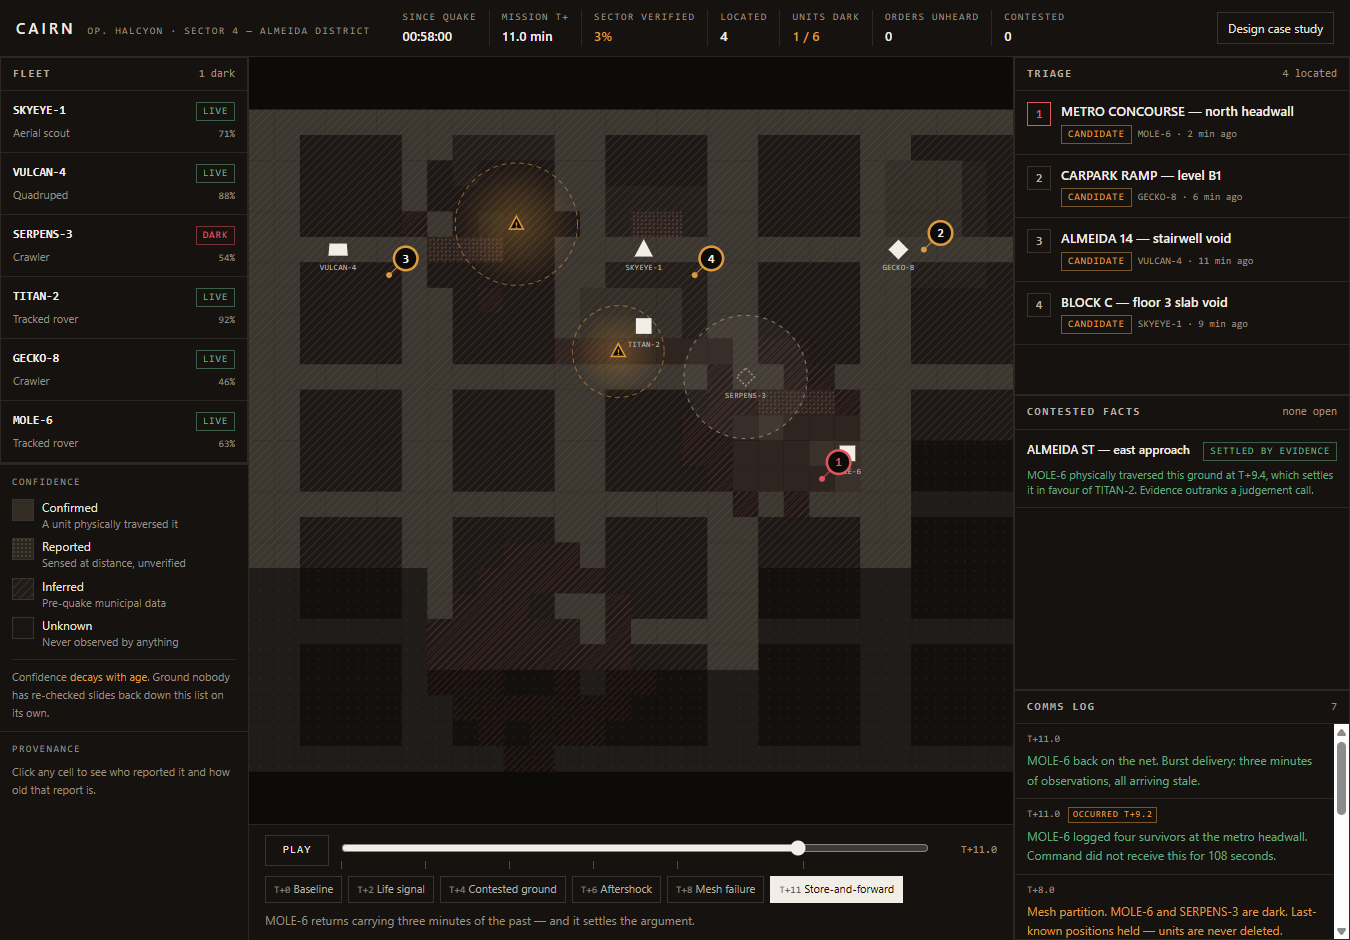
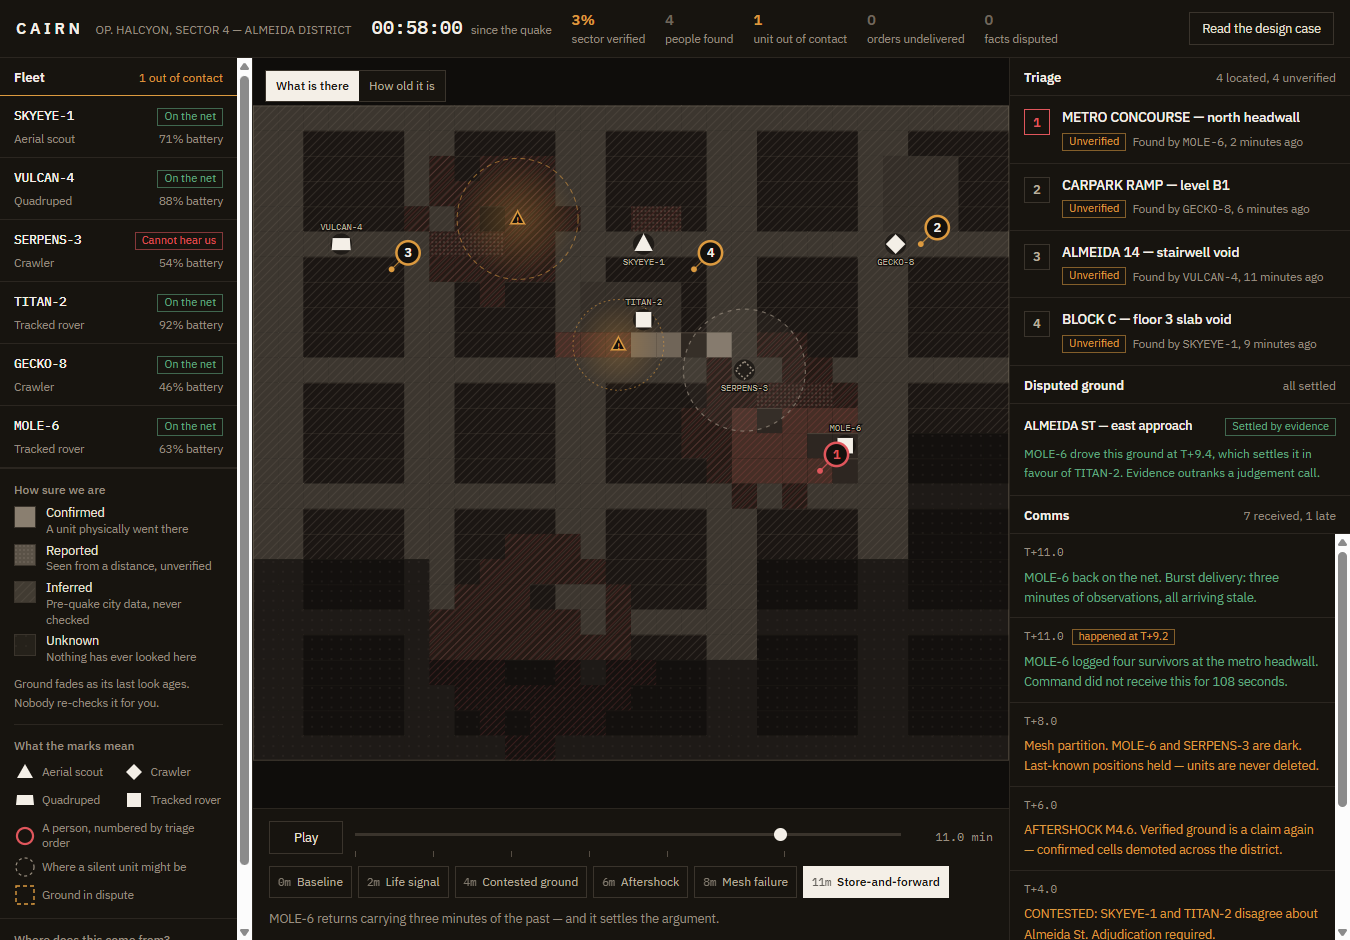
README and IA doc: argue the case against a real basemap
The obvious build here is markers on OpenStreetMap or a 3D city, and
both look more impressive in the first two seconds than a hand-drawn
SVG does. The reason for rejecting them is worth stating rather than
leaving implicit: a photographic basemap asserts that the city is known,
which is precisely what the brief says is not true. Render a pristine
street network and the uncertainty can only ever be a decoration on top
of an authoritative picture.

README now leads with the age view, since a district that is almost
entirely black makes the argument faster than any paragraph.

diff --git a/README.md b/README.md
@@ -1,17 +1,19 @@
 # CAIRN
 
-**Command a robot swarm through a city you cannot see, using information you cannot fully trust.**
+**Command a rescue swarm through a city you cannot see, using information you cannot fully trust.**
 
 ### ▶ [Open the live command deck](https://aaaditt.github.io/UXcelerate/)
 
-*The incident plays itself — about 30 seconds end to end. Press space to pause, or jump straight to any beat.*
+*The incident plays itself — about 30 seconds end to end. Nothing to install, nothing to set up.*
 
 Submission for **UXcelerate!** — the IEI BPDC UI/UX challenge, 5–6 September 2026.
 Forked from [ieibpdc/UXcelerate](https://github.com/ieibpdc/UXcelerate).
 
-[![CAIRN command deck at T+11](docs/img/backfill.png)](https://aaaditt.github.io/UXcelerate/)
+---
 
-<sup>**T+11 — store-and-forward.** MOLE-6 returns from three minutes of radio silence. Its observations are stamped `OCCURRED T+9.2` in the log because they arrived late, and the ground it physically drove has just **settled the argument** that two remote sensors could only disagree about.</sup>
+[![Everything six robots have seen after eleven minutes](docs/img/age-view.png)](https://aaaditt.github.io/UXcelerate/)
+
+<sup>**This is not a styling choice.** It is the map switched to *How old it is*, eleven minutes into the incident: every patch of ground six robots have actually observed, and nothing else. Bright was seen seconds ago, dim minutes ago, black never. **Almost the entire district is black.** An interface that draws the rest as though it were known is lying to the person who has to walk into it.</sup>
 
 ---
 
@@ -31,10 +33,10 @@ CAIRN's primary object is therefore a *decision under uncertainty*, not a fleet.
 
 | The brief says | CAIRN does |
 |---|---|
-| **Maps may be incomplete** | Confidence is drawn as **material** — solid, stipple, hatch, void — never as colour alone, so it survives greyscale and colour blindness. And it **decays with age**: ground nobody re-checks slides from *confirmed* → *reported* → *inferred* on its own. The map visibly forgets. |
-| **Robots discover contradictions** | When the aerial unit says a street is clear and the ground unit says it is blocked, the system **refuses to silently pick a winner**. It raises a contested fact, attributes both claims with sensor and timestamp, and shows what each choice does to the triage order. |
-| **Communication may be unreliable** | A dark unit is **never removed from the map**. It holds its last-known position inside an uncertainty ellipse that **grows as contact ages**. Orders queue instead of failing, and the fleet list counts *"orders this unit does not know about yet."* |
-| **Continuous discovery** | Discoveries enter as **candidates to be triaged in**, never as toasts that vanish carrying the only copy of the information. The queue ranks *people*, shows its arithmetic, and states the counterfactual: *"rank 3 → rank 1 if Almeida St is confirmed passable."* |
+| **Maps may be incomplete** | Certainty is drawn as **material** — solid, stipple, hatch, void — never as colour alone, so it survives greyscale and colour blindness. And it **decays continuously with age**: ground nobody re-checks fades on screen while you watch, and an aftershock demotes the whole district at once. Certainty is a function of time, not a flag somebody set. |
+| **Robots discover contradictions** | When the drone says a street is clear and the rover says it is blocked, the system **refuses to silently pick a winner**. It raises the dispute, attributes both claims with sensor and timestamp, and shows what each answer costs in triage order. |
+| **Communication may be unreliable** | A unit that cannot hear us is **never removed from the map**. It holds its last-known position inside a circle that **grows as contact ages**. Orders queue instead of failing, and the fleet counts *"orders this unit does not know about yet."* |
+| **Continuous discovery** | Discoveries enter as **candidates to be triaged in**, never as toasts that vanish carrying the only copy of the information. The queue ranks *people*, shows its arithmetic, and states the counterfactual: *"rank 3 → rank 1 if Almeida St is passable."* |
 
 ## The idea that makes it work
 
@@ -46,59 +48,67 @@ state(T) = EVENTS.filter(e => e.known <= T)   // what Command has received
                  .reduce(applyEvent, seed)
 ```
 
-For a live unit the two clocks are identical. For MOLE-6 — dark at T+08, back at T+11 — they diverge, and its three minutes of observations arrive **already stale**, slotting into the timeline where they really belong.
+For a live unit the two clocks are identical. For MOLE-6 — dark at eight minutes, back at eleven — they diverge, and its three minutes of observations arrive **already stale**, slotting into the timeline where they really belong.
 
-**The map gains information about its own past.** Store-and-forward, the timeline scrubber, confidence decay, and "what did we know at T+04" are all the same query with a different bound. This is the rare case where the engineering choice and the design choice are the same choice.
+**The map gains information about its own past**, and that backfill is what finally settles a dispute raised seven minutes earlier. Store-and-forward, the timeline scrubber, confidence decay, and "what did we know at four minutes" are all the same query with a different bound. This is the rare case where the engineering choice and the design choice are the same choice.
+
+## Why there is no 3D city and no real basemap
+
+The most tempting thing to build here is a photoreal 3D district, or markers dropped onto OpenStreetMap. Both were deliberately rejected, and the reason is the whole argument:
+
+**A photographic basemap asserts that the city is known.** Every road drawn crisply underneath your robots is a claim that somebody has verified it — which is precisely the thing the brief says is not true. The moment you render a pristine street network, you have designed away the problem you were asked to solve.
+
+So the district is hand-drawn SVG over a deterministic simulation. That buys three things a vendor basemap cannot:
+
+1. **Uncertainty becomes drawable.** Confidence *is* the map — the texture, the opacity, the fade. That is not possible when you are compositing on top of somebody else's authoritative tiles.
+2. **It cannot fail.** No WebGL context, no tile server, no network dependency in the render path. It draws on a judge's laptop, in a projector room, on a phone.
+3. **It is honest about scale.** Six robots, eleven minutes, a few percent of a sector. A slick 3D city makes that look like coverage. A field of black does not.
 
 ## Walk it in 90 seconds
 
-Six named beats, jumpable from the timeline or with keys `1`–`6`:
+Six named moments, jumpable from the timeline or with keys `1`–`6`:
 
-| | Beat | What to watch |
+| | Moment | What to watch |
 |---|---|---|
-| **T+00** | Baseline | Most of the map is hatched — that is *pre-quake municipal data*, not ground truth. Sector verified: 2%. |
-| **T+02** | Life signal | A thermal bloom over Block C enters triage as a **candidate**, at 41% vitals confidence. Open it — the ranking shows its arithmetic. |
-| **T+04** | Contested ground | Air and ground disagree. Read both claims, then adjudicate. Watch the triage order and the map change together. |
-| **T+06** | Aftershock | M4.6. Every *confirmed* cell in the district is demoted to *reported*. The picture rots in one step. |
-| **T+08** | Mesh failure | Two units go dark. Their uncertainty ellipses grow. Dispatch one anyway — the order **queues**. |
-| **T+11** | Store-and-forward | MOLE-6 returns with three minutes of the past. The comms log stamps them `occurred T+9.2`, and the backfill **settles the T+04 argument**. |
+| **0m** | Baseline | Most of the map is hatched — that is *pre-quake city data*, not ground truth. Sector verified: 1%. |
+| **2m** | Life signal | A thermal bloom over Block C enters triage as a **candidate** at 41% confidence. Open it: the ranking shows its arithmetic. |
+| **4m** | Contested ground | Air and ground disagree. Read both claims, then decide. The triage order and the map change together. |
+| **6m** | Aftershock | M4.6. Every *confirmed* cell in the district is demoted at once. Sector verified drops to **0%**. |
+| **8m** | Mesh failure | Two units go dark. Their uncertainty circles grow. Send one anyway — the order **queues**, and the top bar counts it. |
+| **11m** | Store-and-forward | MOLE-6 returns with three minutes of the past, stamped `happened at T+9.2`, and it **settles the 4m argument**. |
 
-**Keyboard:** `space` play/pause · `1`–`6` jump to beat · `esc` clear selection
-**In-app:** the full written case study is behind *Design case study* in the top right.
+**Keyboard:** `space` plays and pauses · `1`–`6` jump between moments · `esc` clears the selection
+**In-app:** the full written case is behind *Read the design case*, top right.
 
 | | |
 |---|---|
-| ![Contested fact at T+4](docs/img/contested.png) | ![Triage score breakdown](docs/img/triage.png) |
-| **T+04 — the system refuses to choose.** Both claims are attributed with their sensor and timestamp. Until Command adjudicates, the contested cells stay impassable in every route we calculate. | **Every rank shows its arithmetic.** Vitals confidence, void space, corroboration, elapsed time and route trust — plus what would change the ordering. |
+| ![A contested fact at four minutes](docs/img/contested.png) | ![Store-and-forward at eleven minutes](docs/img/backfill.png) |
+| **4m — the system refuses to choose.** Both claims attributed with sensor and timestamp. Until it is settled, the ground stays impassable in every route we calculate. | **11m — the past arrives late.** The comms log stamps the backfill `happened at T+9.2`, and evidence from a physical traversal outranks the earlier judgement call. |
 
 ## Accessibility — stated honestly
 
-An unverifiable conformance badge is worse than no badge, so:
+**Lighthouse rates the live build 100 for accessibility, 100 best practices, 100 SEO.** That is a floor, not a certificate — and there is no badge on this repo, because a badge you cannot verify is worse than none.
 
-**Lighthouse: accessibility 100, best practices 100, SEO 100** on the live build — after fixing the two real failures the first run surfaced. That score is a floor, not a certificate; it cannot see either gap listed below.
+**Holds up.** No information is carried by colour alone — certainty is texture, triage order is a numeral, link state is a sentence. Body text never drops below 14px, with tabular figures on anything that ticks. Every control is keyboard reachable with a visible focus ring, and `prefers-reduced-motion` is respected.
 
-**Holds up.** No information is carried by colour alone — confidence is texture, triage order is a numeral, link state is a word. Body text meets WCAG AA contrast on the graphite surfaces, with a 14px floor. Every control is keyboard reachable with a visible focus ring. `prefers-reduced-motion` is respected. The map carries a text alternative summarising its state.
-
-**Does not yet.** The SVG map is not fully keyboard navigable — cells are clickable but not tabbable, so a screen-reader user gets the summary and the panels but not per-cell provenance. Map callsigns render at 8.5px, breaking the 14px floor the design system sets for itself. Both are documented in [`docs/06-accessibility-audit.md`](docs/06-accessibility-audit.md) rather than hidden.
+**Does not.** The SVG map is not keyboard navigable, so per-cell provenance is mouse-only, and there is no live region announcing incident events to a screen reader. Both are written up in [`docs/06-accessibility-audit.md`](docs/06-accessibility-audit.md) rather than hidden.
 
 ## Design system in one paragraph
 
-**Colour is a scarce resource.** Real safety-critical equipment — ICU monitors, air traffic displays, INSARAG field kit — is not neon. Here colour only ever means risk or confidence; there is no brand accent. When something turns amber on this screen, it means something. Body text never drops below 14px, because dense tactical UIs habitually fall to 10px and lose all hierarchy exactly when load matters most. Telemetry uses tabular figures so columns do not jitter as they tick. Warm graphite, not blue-black — this should read as an instrument someone is accountable for, not a prop.
+**Colour is a scarce resource.** Real safety-critical equipment — ICU monitors, air traffic displays, INSARAG field kit — is not neon. Here colour only ever means risk or confidence; there is no brand accent, and interactive state is carried by weight, border and a bright neutral instead of hue. When something turns amber on this screen, it means something. An earlier version of this deck had a tracked-out capitalised label above every panel and monospace on every number; it looked technical, but it was decoration pretending to be structure, and it made six panels shout equally. Stripping it back to sentence case and letting weight, size and space carry the hierarchy made the whole screen quieter and faster to read. Type is IBM Plex, drawn for technical instruments; monospace survives only where the content is genuinely machine output.
 
 ## Process documents
 
-- [`01-research.md`](docs/01-research.md) — domain grounding and what real USAR interfaces get wrong
-- [`02-personas.md`](docs/02-personas.md) — the Incident Commander and the Robot Operator
-- [`03-user-flows.md`](docs/03-user-flows.md) — the three flows the deck is built around
-- [`04-information-architecture.md`](docs/04-information-architecture.md) — why the screen is laid out this way
-- [`05-design-system.md`](docs/05-design-system.md) — colour, type, the confidence encoding
-- [`06-accessibility-audit.md`](docs/06-accessibility-audit.md) — measured, including the failures
+- [`01-research.md`](docs/01-research.md) — domain grounding, and the four things real USAR interfaces get wrong
+- [`02-personas.md`](docs/02-personas.md) — the incident commander and the robot operator, and the tension between them
+- [`03-user-flows.md`](docs/03-user-flows.md) — the three flows, and why they are designed to collide
+- [`04-information-architecture.md`](docs/04-information-architecture.md) — why the screen is laid out this way, and what is deliberately absent
+- [`05-design-system.md`](docs/05-design-system.md) — colour, type, and the confidence encoding
+- [`06-accessibility-audit.md`](docs/06-accessibility-audit.md) — measured, including what fails
 
 ## Stack
 
-Vite · React 19 · TypeScript · Tailwind v4 · **plain SVG**.
-
-No map vendor, no WebGL, no Three.js — deliberately. A heavy basemap renders nothing at all if anything goes wrong on a judge's laptop, and hand-drawing the map is what makes the confidence encoding possible in the first place. Everything is deterministic from a fixed seed, so the incident is identical on every run.
+Vite · React 19 · TypeScript · Tailwind v4 · **plain SVG**. Everything is deterministic from a fixed seed, so the incident is identical on every run.
 
 ```bash
 npm install

diff --git a/docs/04-information-architecture.md b/docs/04-information-architecture.md
@@ -38,6 +38,24 @@ If confidence is encoded as material, the key to that material must be **permane
 - **No notification toasts.** See [`03-user-flows.md`](03-user-flows.md), Flow A.
 - **No settings, no login, no theme toggle.** Nothing that is not the incident.
 
+## The rejected option: a real basemap
+
+The obvious move is to drop markers onto OpenStreetMap, or to build a 3D city. Both were considered and rejected, and the reason is the entire thesis.
+
+**A photographic basemap asserts that the city is known.** Every road drawn crisply underneath the robots is a claim that somebody has verified it — which is exactly what the brief says is not true. Render a pristine street network and you have designed away the problem you were asked to solve; the uncertainty can then only be a decoration layered on top of an authoritative picture.
+
+Hand-drawing the district in SVG buys three things instead:
+
+1. **Uncertainty becomes drawable.** Confidence *is* the map — its texture, its opacity, its fade over time. That is not available when compositing over somebody else's tiles.
+2. **It cannot fail.** No WebGL context, no tile server, no network dependency in the render path.
+3. **It is honest about scale.** Six units covering a few percent of a sector. A detailed 3D city makes that look like coverage. A field of black does not.
+
+## The entry screen
+
+The deck opens behind a briefing rather than dropping a visitor straight into it. A command interface seen cold is unreadable — panels and a dark map, with no way to know what the idea was. The briefing states the reframe, then uses the *How old it is* view as its hero, because the strongest argument the product can make is the sight of how little has actually been seen.
+
+It is one screen and one button, not a guided tour. A tour would be an admission that the interface cannot explain itself.
+
 ## Responsive behaviour
 
 Below the `lg` breakpoint the three columns collapse to a single scrolling column: map and timeline first, then triage, contested facts, log, fleet, legend. The map keeps its aspect ratio and stays legible; nothing is hidden, only re-stacked. This is a command-desk product, so desktop is the honest primary target — but a tablet at a forward staging point is plausible enough that it must not break.
